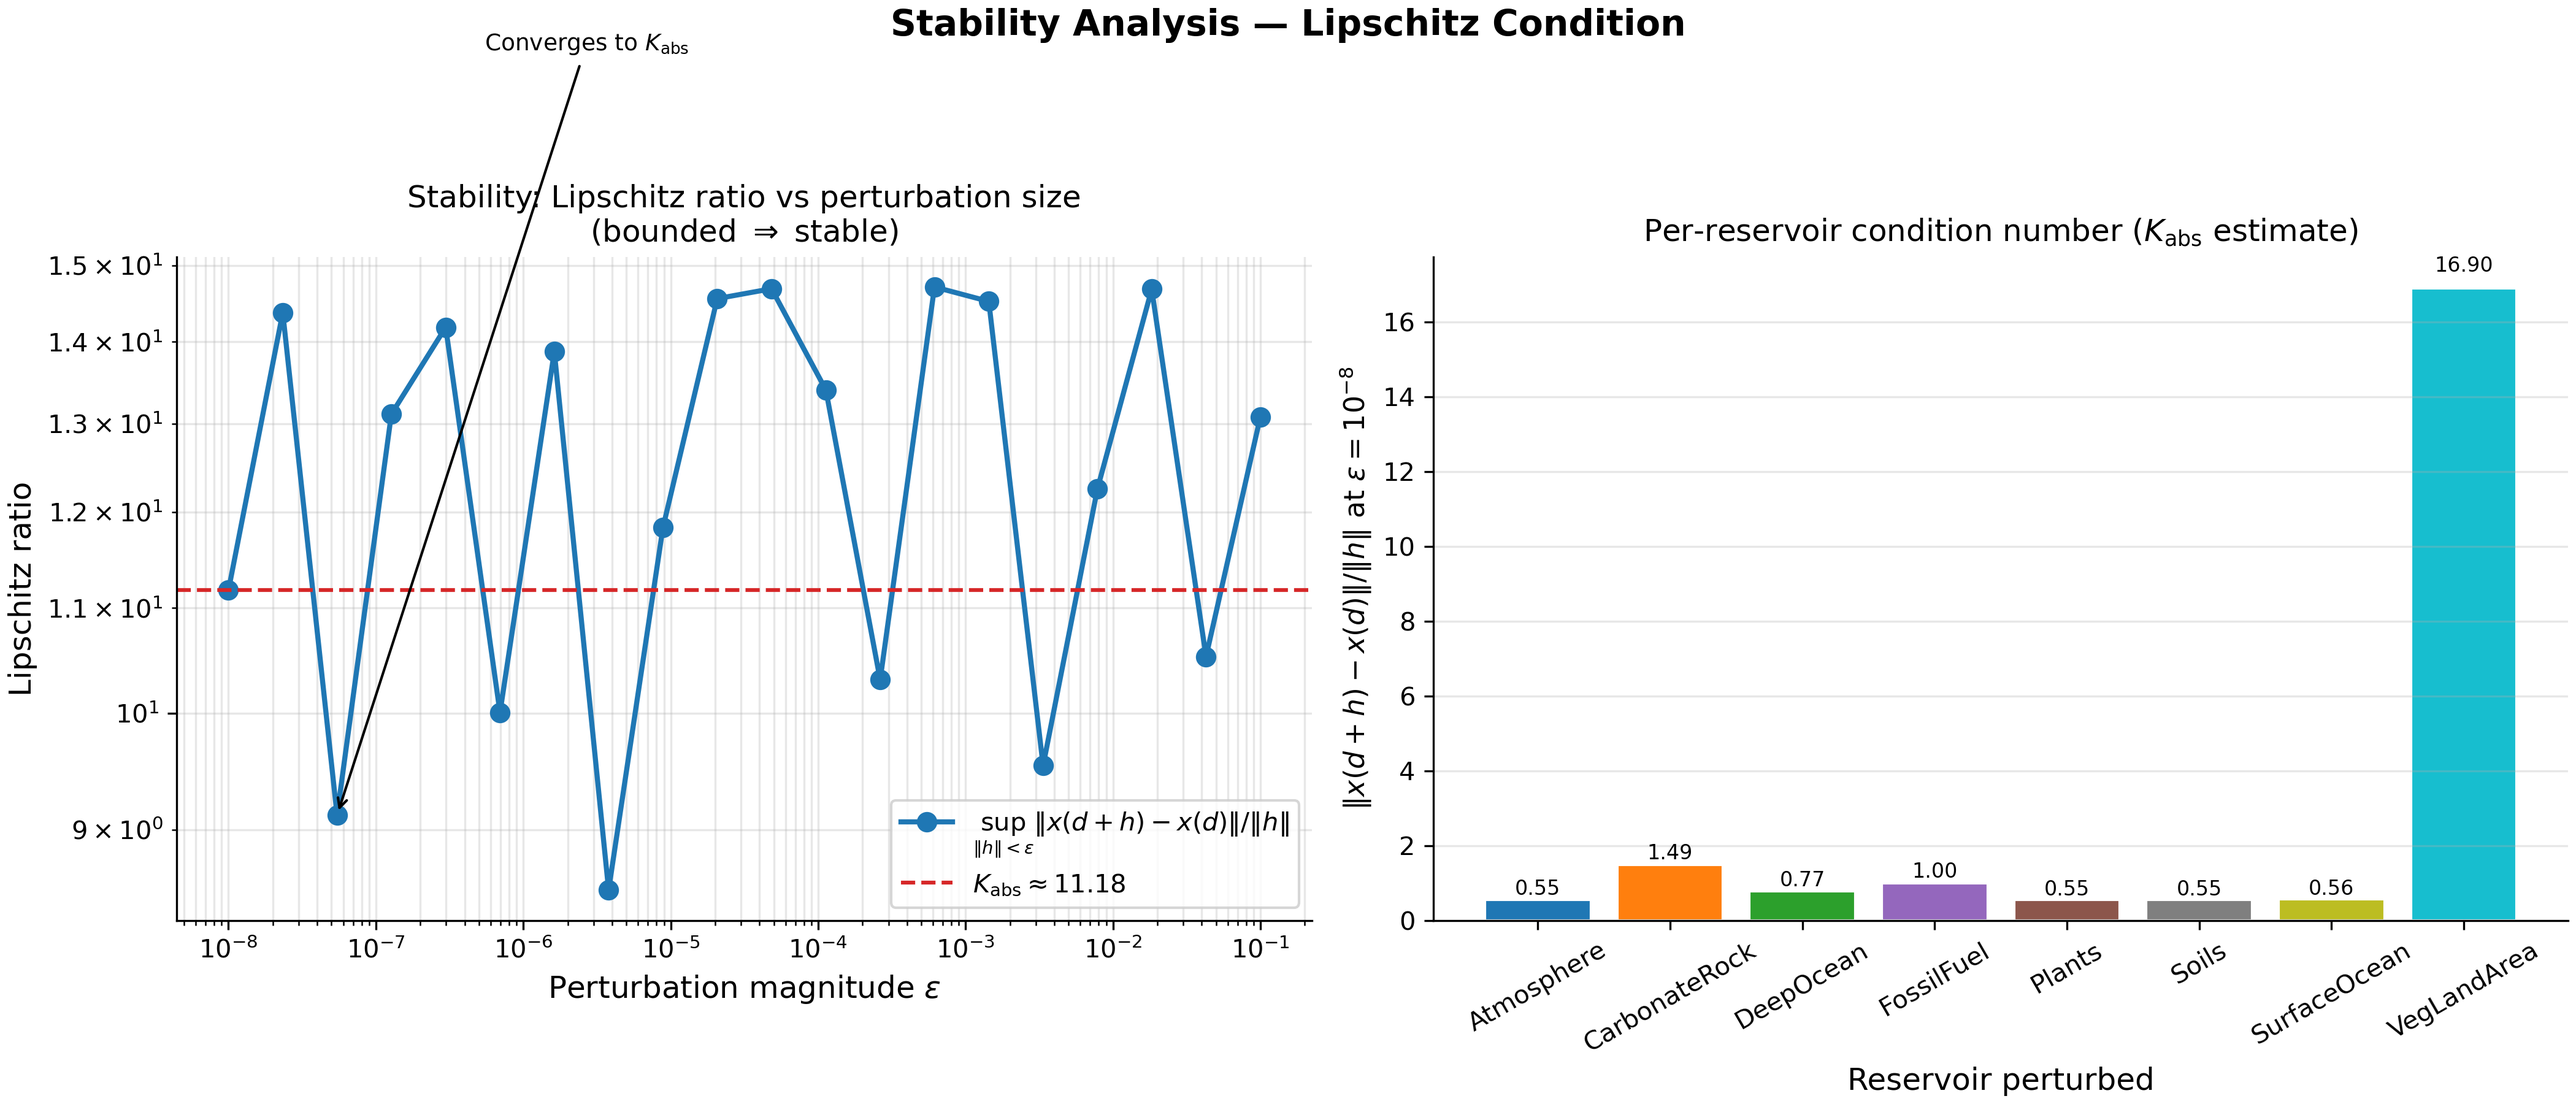
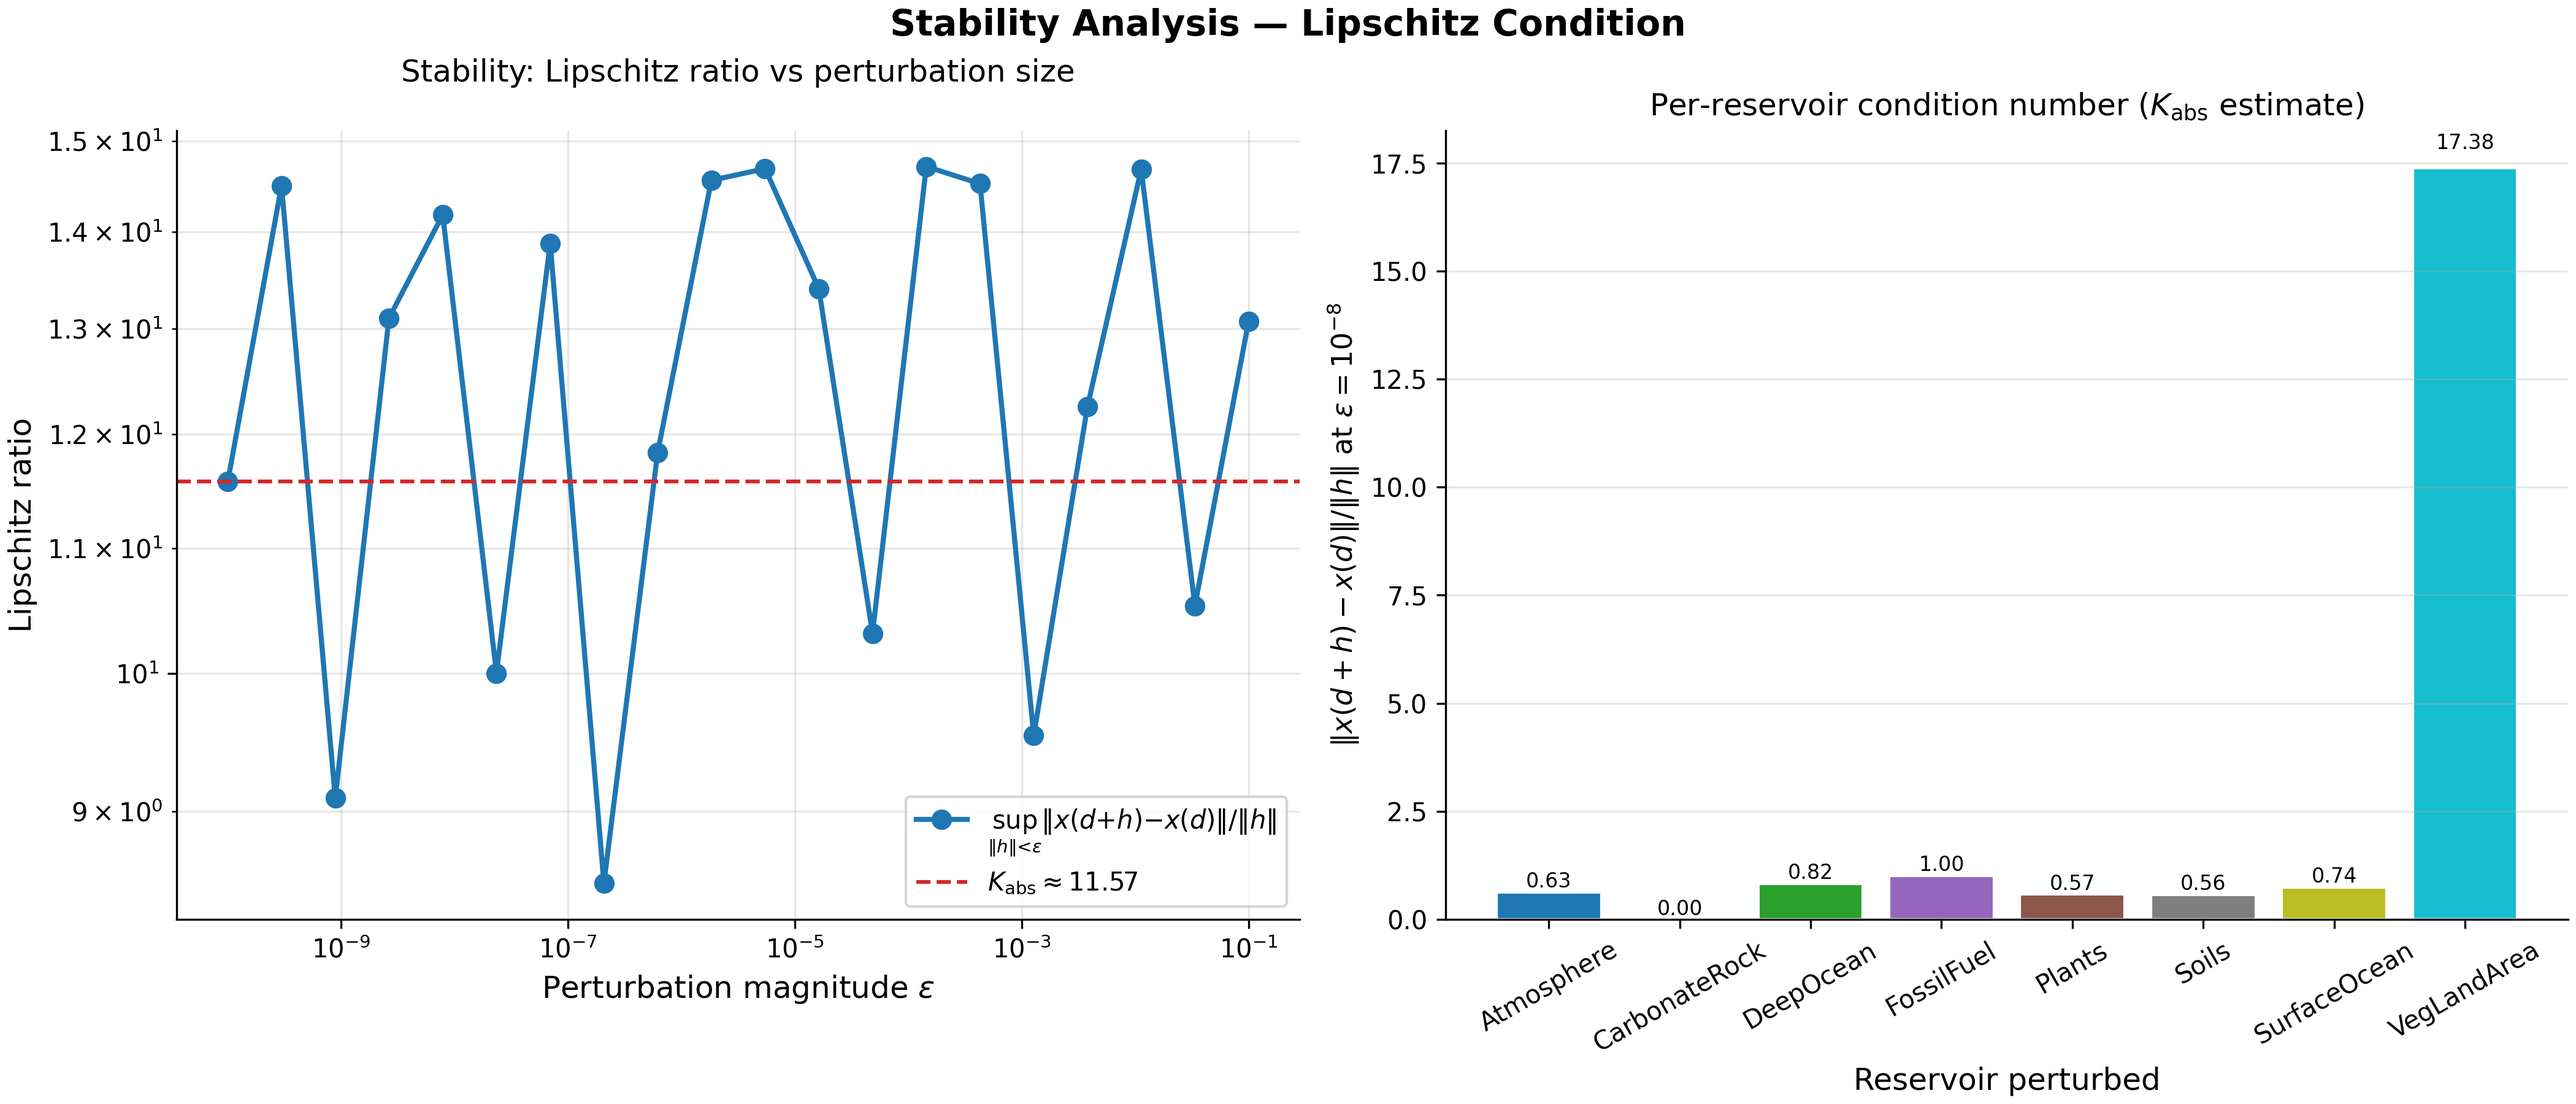
Stability courbe

diff --git a/carbone_clean.py b/carbone_clean.py
@@ -537,7 +537,7 @@ def analyse_stability():
     co2_ref = AtmCO2(res_ref[-1, 0])
     x_ref_final = res_ref[-1]
 
-    epsilons = np.logspace(-1, -8, 20)
+    epsilons = np.logspace(-1, -10, 20)
     n_dirs = 20  # number of random perturbation directions per epsilon
 
     # We test perturbations on each reservoir independently + random directions
@@ -594,18 +594,17 @@ def analyse_stability():
                label=f'$K_{{\\rm abs}} \\approx {K_abs:.2f}$')
     ax.set_xlabel(r'Perturbation magnitude $\varepsilon$', fontsize=12)
     ax.set_ylabel(r'Lipschitz ratio', fontsize=12)
-    ax.set_title('Stability: Lipschitz ratio vs perturbation size\n'
-                 r'(bounded $\Rightarrow$ stable)', fontsize=12)
+    ax.set_title('Stability: Lipschitz ratio vs perturbation size\n', fontsize=12)
     ax.legend(fontsize=10)
     ax.grid(True, which='both', alpha=0.3)
     ax.spines[['top', 'right']].set_visible(False)
 
     # Annotate convergence to K_abs
-    ax.annotate(f'Converges to $K_{{\\rm abs}}$',
-                xy=(epsilons[-3], sup_ratios[-3]),
-                xytext=(epsilons[-3] * 10, sup_ratios[-3] * 2),
-                arrowprops=dict(arrowstyle='->', color='black'),
-                fontsize=9)
+    # ax.annotate(f'Converges to $K_{{\\rm abs}}$',
+    #             xy=(epsilons[-3], sup_ratios[-3]),
+    #             xytext=(epsilons[-3] * 10, sup_ratios[-3] * 2),
+    #             arrowprops=dict(arrowstyle='->', color='black'),
+    #             fontsize=9)
 
     # --- Plot 2: per-reservoir ratios at smallest epsilon ---
     ax2 = axes[1]
@@ -651,4 +650,4 @@ if __name__ == '__main__':
     verify_mass_conservation(times, results)
     analyse_convergence()
     analyse_consistance()
-    #analyse_stability()
+    analyse_stability()
